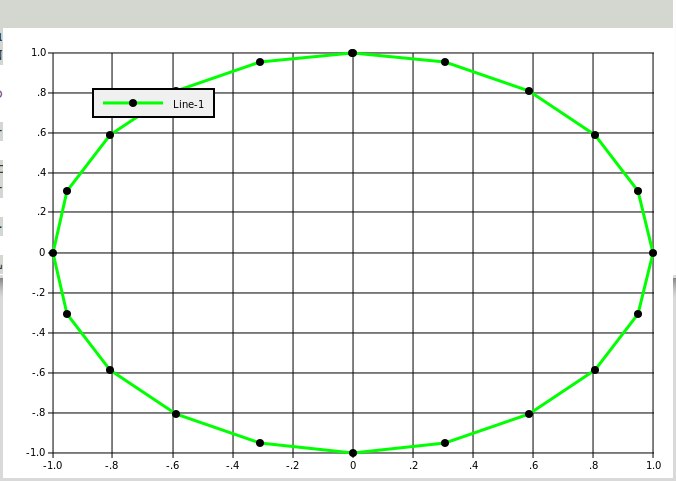
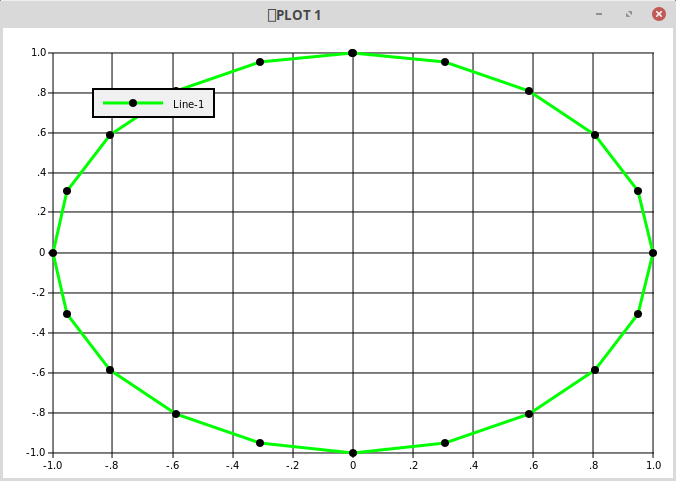
sync from SVN

diff --git a/trunk/config.h b/trunk/config.h
@@ -5,7 +5,7 @@
 #define ARCHIVE_SVN " 19548"
 
 /* How and when GNU APL was configured */
-#define BUILDTAG PACKAGE_NAME, PACKAGE_VERSION " / SVN: 19668", "2022-11-25 16:57:44 UTC", "Linux 4.15.0-158-generic x86_64", "default ./configure options"
+#define BUILDTAG PACKAGE_NAME, PACKAGE_VERSION " / SVN: 19670", "2022-11-25 17:07:38 UTC", "Linux 4.15.0-158-generic x86_64", "default ./configure options"
 
 /* Define to 1 iff pthread_setaffinity_np() is available */
 #define HAVE_AFFINITY_NP 1